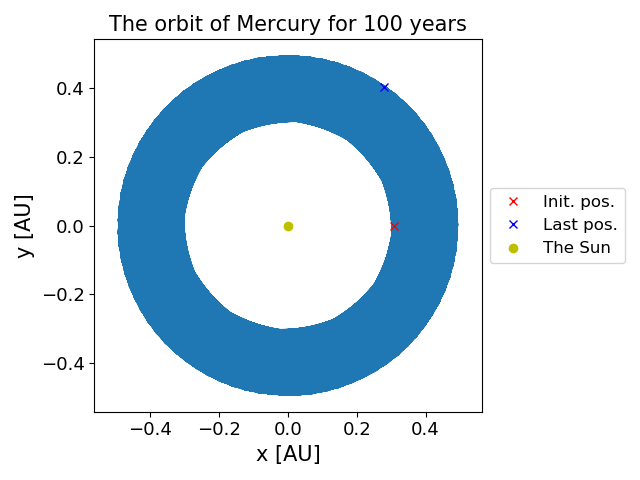
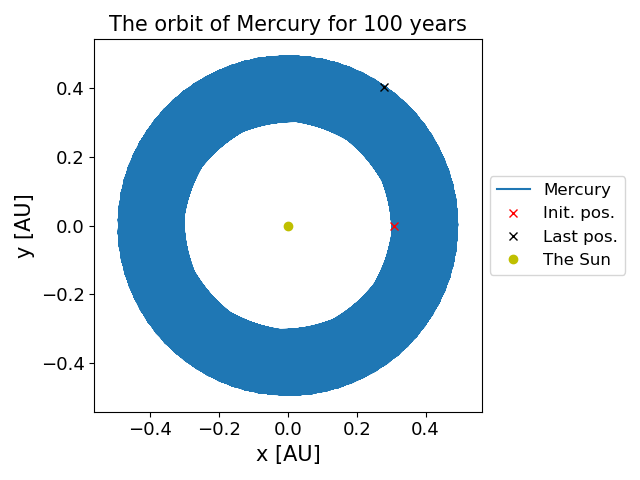
mercury results

Changed region(s): [[0.7812, 0.375, 0.9688, 0.5625], [0.5938, 0.1562, 0.625, 0.1875]]

diff --git a/Project3/main.py b/Project3/main.py
@@ -321,12 +321,7 @@ def Ex3h(n, T, planet_names, save_plot=False):
 
 
 def Ex3i(planet_names, n=1e4, T=100, slice_n=3000, save_plot=False):
-    """
-    print(issubclass(bool, int))
-    print(isinstance(planets.mass, object))
-    print(isinstance(M_M, np.ndarray))
-    print(planets.__init__.__doc__)
-    """
+    """The orbit of Mercury with relativistic precision"""
 
     n      = int(n)
     last_n = int(slice_n)
@@ -390,9 +385,9 @@ def Ex3i(planet_names, n=1e4, T=100, slice_n=3000, save_plot=False):
     print(out_data)
 
 
-    plt.plot(pos_V[0,:,0], pos_V[1,:,0], 'Mercury')
+    plt.plot(pos_V[0,:,0], pos_V[1,:,0], label='Mercury')
     plt.plot(pos_V[0,0,0], pos_V[1,0,0], 'rx', label='Init. pos.')
-    plt.plot(pos_V[0,-1,0], pos_V[1,-1,0], 'bx', label='Last pos.')
+    plt.plot(pos_V[0,-1,0], pos_V[1,-1,0], 'kx', label='Last pos.')
 
     #plt.plot(pos_V[0,-500,0], pos_V[1,-500,0], 'gx', label='pos[-500]')
     #plt.plot(pos_V[0,-1000,0], pos_V[1,-1000,0], 'rx', label='pos[-1000]')
@@ -403,17 +398,8 @@ def Ex3i(planet_names, n=1e4, T=100, slice_n=3000, save_plot=False):
     if save_plot==True:
         plt.savefig('Results/Mercury/_T[%g]_n[%g]_plot.png' %(T, n))
     
-    '''
-    plt.plot(0,0,'yo') # label='The Sun'
     #plt.plot([distances[-1],0], [distances[-1],0], '-r')   # Plotte radius til solen kanskje..?
 
-    plt.xlabel("x [AU]", fontsize=15); plt.ylabel("y [AU]", fontsize=15)
-    #plt.legend(loc='center left', bbox_to_anchor=(1, 0.5), fontsize=12)
-    plt.xticks(fontsize=13); plt.yticks(fontsize=13)
-    plt.axis('equal'); plt.tight_layout()
-
-    plt.savefig('Results/Mercury/_T[%g]_n[%g]_plot.png' %(T, n))
-    '''
     plt.show()
 
 
@@ -432,7 +418,7 @@ AU      = 149597870691          # [m]
 GMJ     = 4*np.pi*(M_J/M_Sun)   # [AU^3/yr^2] (G*M_J, Astro units,)
 GM      = 4*np.pi**2            # [AU^3/yr^2] ( G*M_sun, Astro units,)
 
-n       = 5*int(1e5)            # integration points
+n       = int(1e4)              # integration points
 
 
 if __name__ == '__main__':
@@ -501,6 +487,8 @@ if __name__ == '__main__':
         print("The three-body problem. Earth-Jupiter-Sun")
         print("--------------------------------------------------------------")
 
+        n       = 5*int(1e5)  # integration points
+
         # Factors to change the mass of Jupiter
         m = [1, 10, 1000]
         Ex3g(n=n, T=100, m=m, save_plot=True)
@@ -515,6 +503,8 @@ if __name__ == '__main__':
         print("Model for all planets of the solar system. Sun in motion")
         print("--------------------------------------------------------------")
 
+        n       = 5*int(1e5)            # integration points
+
         SEJ = ["Sun", "Earth", "Jupiter"]
         SS  = ['Sun', 'Mercury', 'Venus', 'Earth', 'Mars', 'Jupiter', 'Saturn', 'Uranus', 'Neptun', 'Pluto']
 
@@ -528,7 +518,9 @@ if __name__ == '__main__':
         print("The perihelion precession of Mercury")
         print("--------------------------------------------------------------")
 
+        n  = 5*int(1e5)            # integration points
+
         SM = ['Mercury']
 
-        Ex3i(planet_names=SM, n=1e4, T=100, slice_n=3000, save_plot=True)
+        Ex3i(planet_names=SM, n=n, T=100, slice_n=3000, save_plot=True)
 
